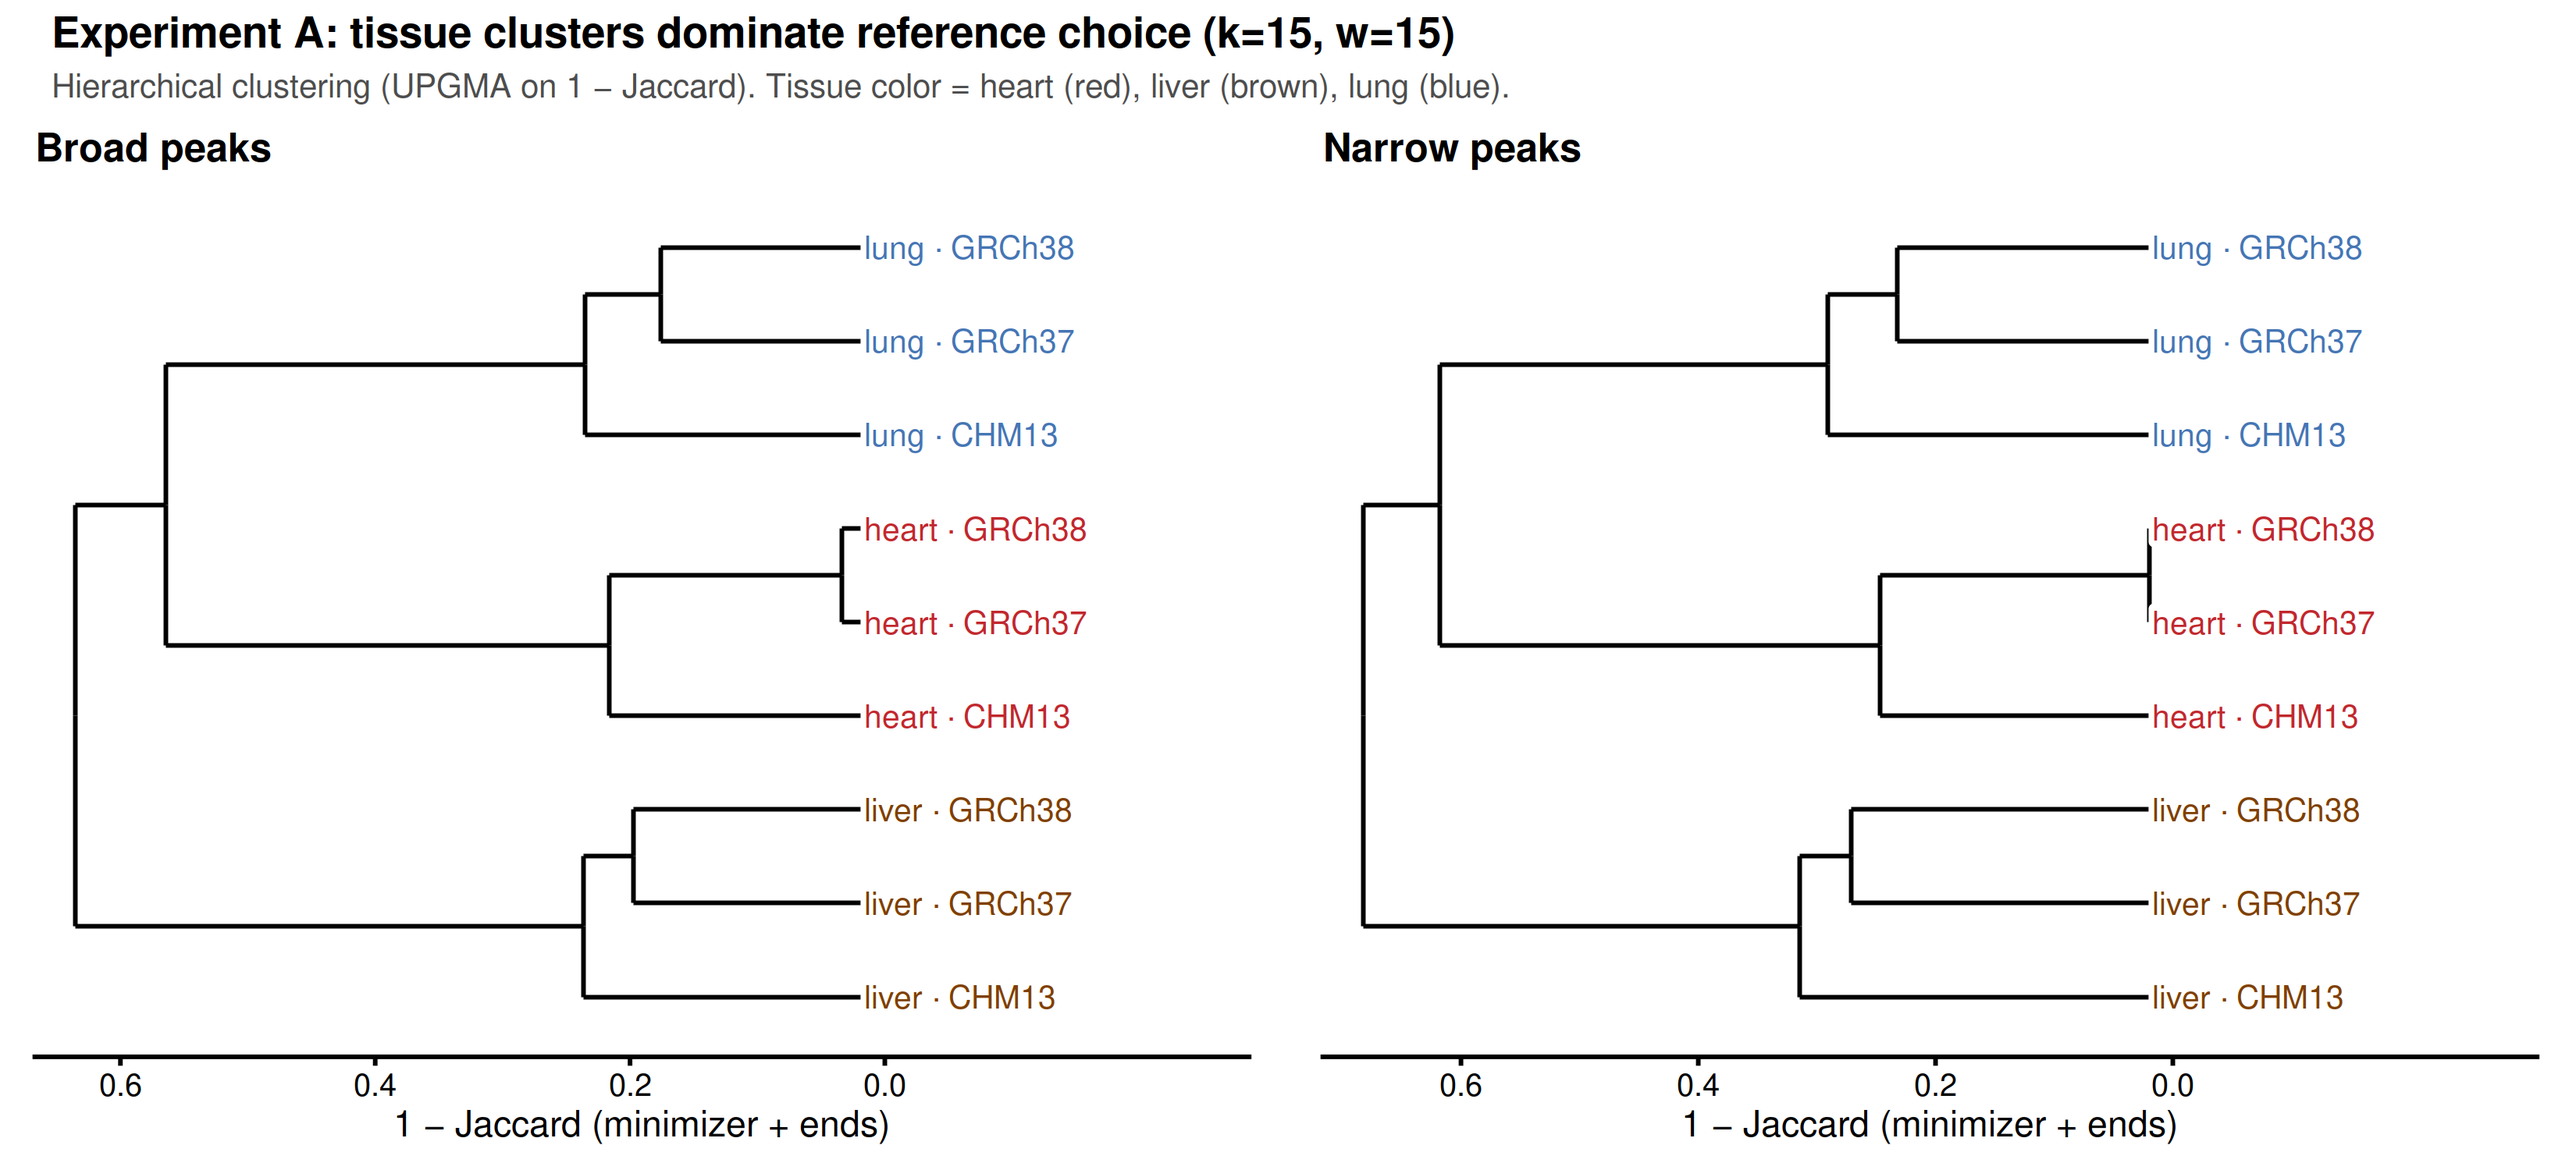
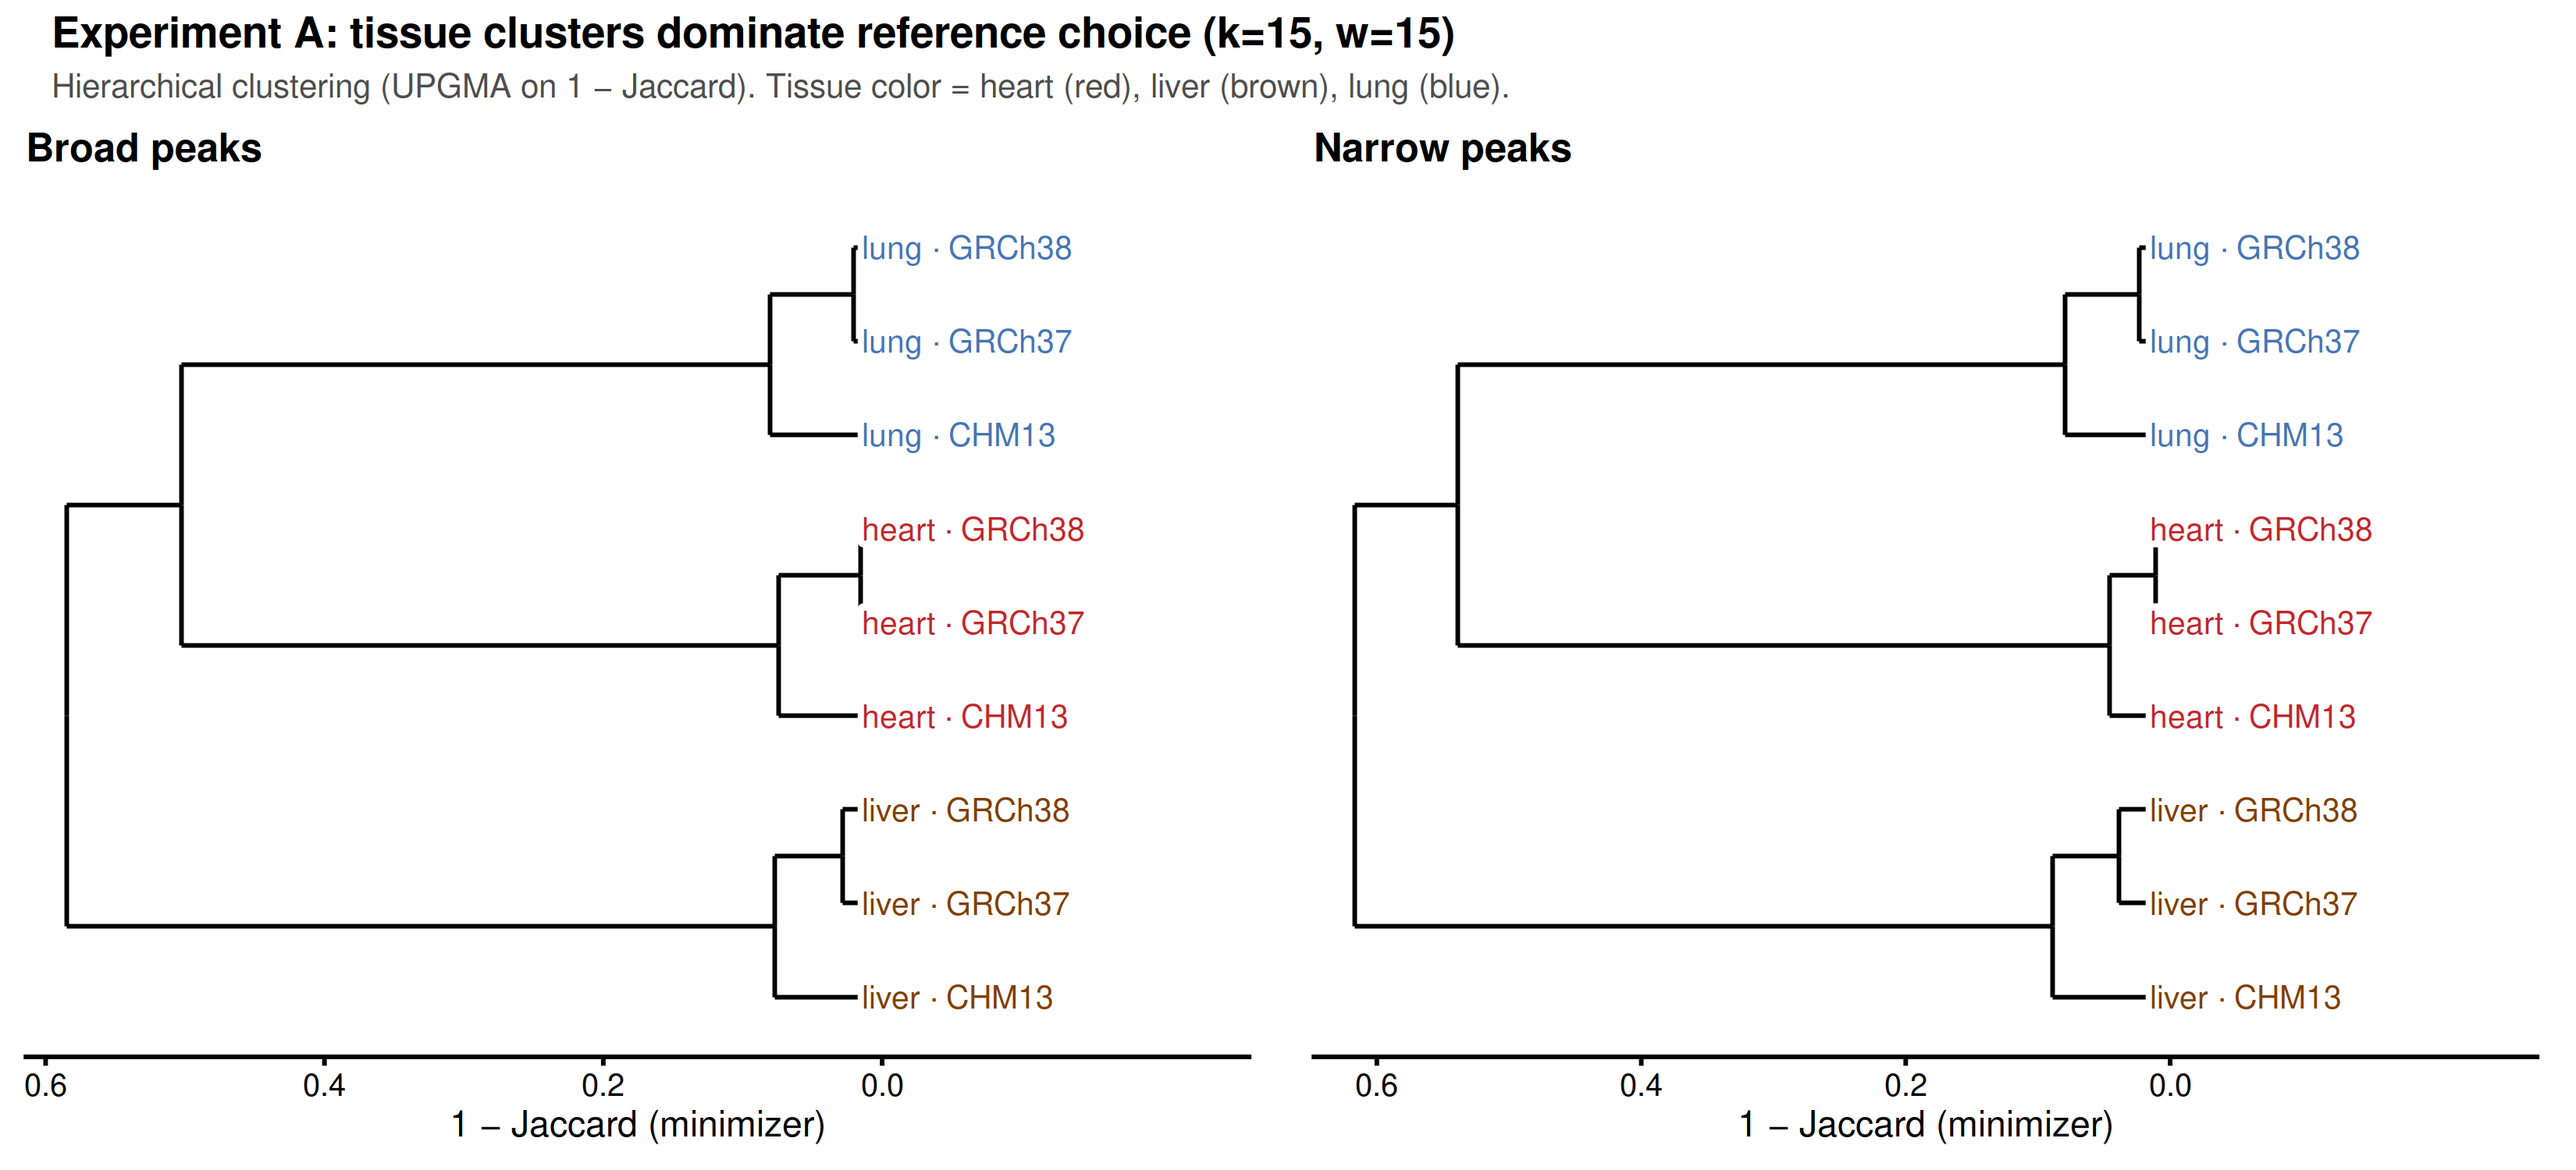
Re-render Fig 7 on jaccard_similarity
The Exp A cross-reference dendrogram was built by exp_a_dendrogram.R from
1 - jaccard_similarity_with_ends, a column v0.6.0 removed, so the figure
in docs/paper_outline.md could no longer be reproduced by the code that
claims to produce it.

The topology is unchanged. Cutting either dendrogram at k=3 recovers the
3x3 tissue partition exactly -- verified under both columns and both peak
types before re-rendering, so Fig 7's claim ("each tissue's three
references form a tight monophyletic clade") holds as written. Only the
figure's provenance changed.

Also fixes a hardcoded axis label that still read "minimizer + ends"
after the column switch, and notes in exp_a_results.md that the stats
tables further down that file were computed on the old column and have
not been regenerated.

diff --git a/experiments/ref-comparison/docs/exp_a_results.md b/experiments/ref-comparison/docs/exp_a_results.md
@@ -8,7 +8,10 @@ similarly *across references* than across tissues on any one reference.
 2 peak callers (MACS3 broad + narrow). (k, w) sweep: 20 cells with w ≥ k.
 
 Hammock Mode D with minimizer HLL, `--precision 24`. Similarity metric:
-`jaccard_similarity_with_ends` (minimizer ∪ start-end HLL).
+`jaccard_similarity_with_ends` (minimizer ∪ start-end HLL) for the stats
+tables below; **the dendrogram was re-rendered on `jaccard_similarity` in
+v0.6.0** (see that section). The `_with_ends` column no longer exists —
+CLAUDE.md divergence #8, `docs/mode-d-ends-removal.md`.
 
 > **Rerun 2026-05-14**: all hammock CSVs, stats, and figures below were
 > regenerated after the Mode D minimizer-ingest bug fix (orig's slow-path
@@ -45,11 +48,18 @@ similarity.
 
 ### Dendrogram — direct visual proof
 
-UPGMA clustering on `1 − jaccard_similarity_with_ends`. Each tissue's
+UPGMA clustering on `1 − jaccard_similarity`. Each tissue's
 three references form a tight monophyletic clade in both peak types.
 At k=15, w=15 the clades are deeply separated; at k=10, w=10 they
 still partition cleanly but with smaller margin. Source:
 `scripts/exp_a_dendrogram.R`.
+
+> **Re-rendered 2026-08-03** on `jaccard_similarity`, after v0.6.0 removed
+> `jaccard_similarity_with_ends` (CLAUDE.md divergence #8). The topology is
+> **unchanged**: cutting either dendrogram at k=3 recovers the 3×3
+> tissue partition exactly, under both columns and both peak types. Only the
+> figure's provenance changed, not its claim. The stats tables further down
+> this file were computed on the old column and have not been regenerated.
 
 ![Cross-reference dendrogram (broad + narrow, k=15, w=15)](../figures/cross_ref_dendrogram_k15_w15.png)
 
